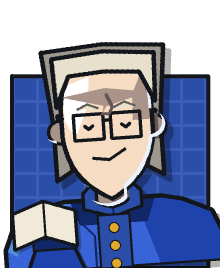
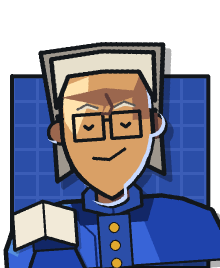
Move Quill off pale skin so her platinum mass clears the contrast floor
The flat pale mass this branch paints lands on platinum's base tone, which is
the pale skin ramp's base to within half a luma — P9's floor (#513) reads the
two as one shape. The remedy that gate names is a roster retune, and the same
one main already made for Vale: a rung, not an exception.

Changed region(s): [[0.2182, 0.2687, 0.7636, 0.7761]]

diff --git a/generators/portraits/portraitgen/roster.py b/generators/portraits/portraitgen/roster.py
@@ -215,7 +215,7 @@ FACES: dict[str, Face] = {
         Face(
             id="lyra_quill",
             chest="placket",
-            skin="pale",
+            skin="medium",
             hair="platinum",
             style="bob",
             brow="soft",
